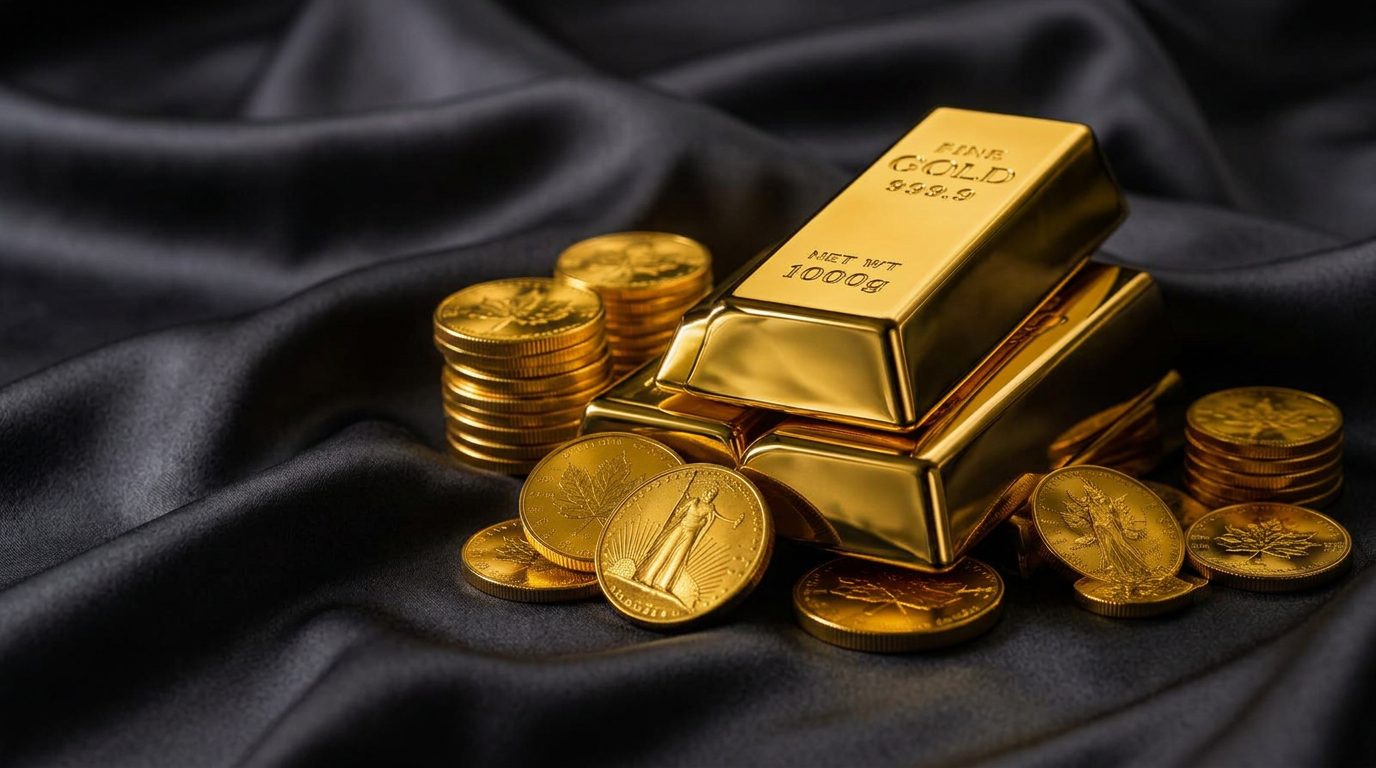
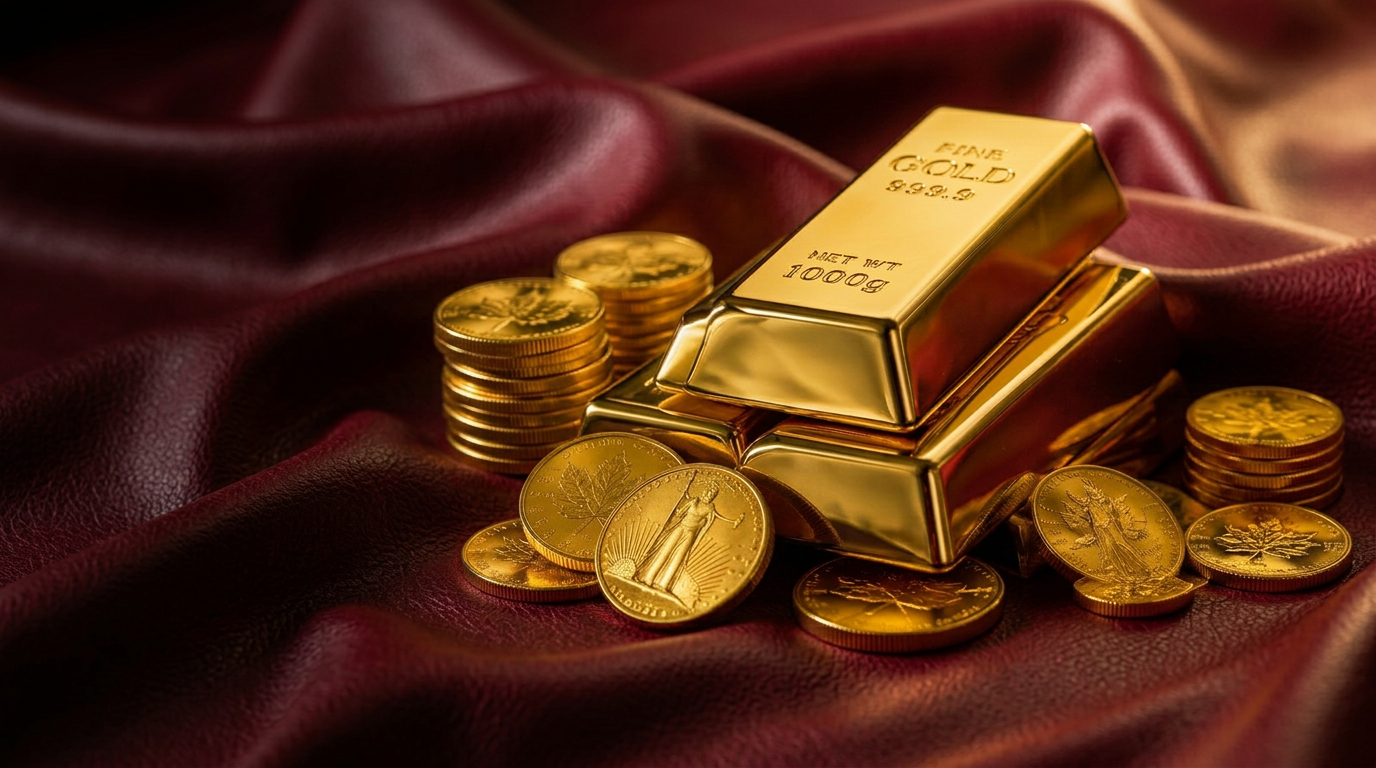
Changes

diff --git a/src/styles.css b/src/styles.css
@@ -71,35 +71,35 @@
 
 :root, .dark {
   --radius: 0.375rem;
-  --background: oklch(0.17 0.004 85);
-  --foreground: oklch(0.94 0.008 85);
-  --card: oklch(0.215 0.004 85);
+  --background: oklch(0.205 0.047 20);
+  --foreground: oklch(0.95 0.014 80);
+  --card: oklch(0.265 0.065 20);
   --card-foreground: var(--foreground);
   --popover: var(--card);
   --popover-foreground: var(--foreground);
-  --primary: oklch(0.78 0.095 85);
-  --primary-foreground: oklch(0.19 0.012 85);
-  --primary-deep: oklch(0.84 0.085 85);
-  --secondary: oklch(0.255 0.005 85);
-  --secondary-foreground: oklch(0.88 0.01 85);
+  --primary: oklch(0.83 0.085 83);
+  --primary-foreground: oklch(0.235 0.05 20);
+  --primary-deep: oklch(0.88 0.073 85);
+  --secondary: oklch(0.315 0.083 22);
+  --secondary-foreground: oklch(0.93 0.018 75);
   --muted: var(--secondary);
-  --muted-foreground: oklch(0.71 0.01 85);
-  --accent: oklch(0.31 0.026 85);
+  --muted-foreground: oklch(0.76 0.026 55);
+  --accent: oklch(0.43 0.14 24);
   --accent-foreground: var(--primary);
   --gold: var(--primary);
-  --destructive: oklch(0.72 0.16 25);
+  --destructive: oklch(0.79 0.12 35);
   --destructive-foreground: var(--foreground);
-  --border: oklch(0.34 0.012 85);
+  --border: oklch(0.415 0.052 30);
   --input: var(--border);
   --ring: var(--primary);
   --image-surface: oklch(0.94 0.002 85);
-  --hero-ink: oklch(0.13 0.004 85);
+  --hero-ink: oklch(0.18 0.052 20);
   --hero-text: oklch(0.97 0.008 85);
   --positive: oklch(0.76 0.085 155);
-  --gradient-brand: linear-gradient(135deg, var(--card), var(--secondary));
-  --gradient-gold: linear-gradient(115deg, oklch(0.85 0.08 85), oklch(0.72 0.095 80));
+  --gradient-brand: linear-gradient(135deg, var(--card), var(--accent));
+  --gradient-gold: linear-gradient(115deg, oklch(0.9 0.065 85), oklch(0.77 0.1 78));
   --gradient-hero: linear-gradient(90deg, var(--hero-ink) 0%, color-mix(in oklab, var(--hero-ink) 88%, transparent) 32%, transparent 75%);
-  --shadow-card: 0 12px 32px -20px oklch(0.05 0 0 / 0.5);
+  --shadow-card: 0 12px 32px -20px oklch(0.1 0.035 20 / 0.6);
   --chart-1: var(--primary);
   --chart-2: var(--positive);
   --chart-3: var(--muted-foreground);
